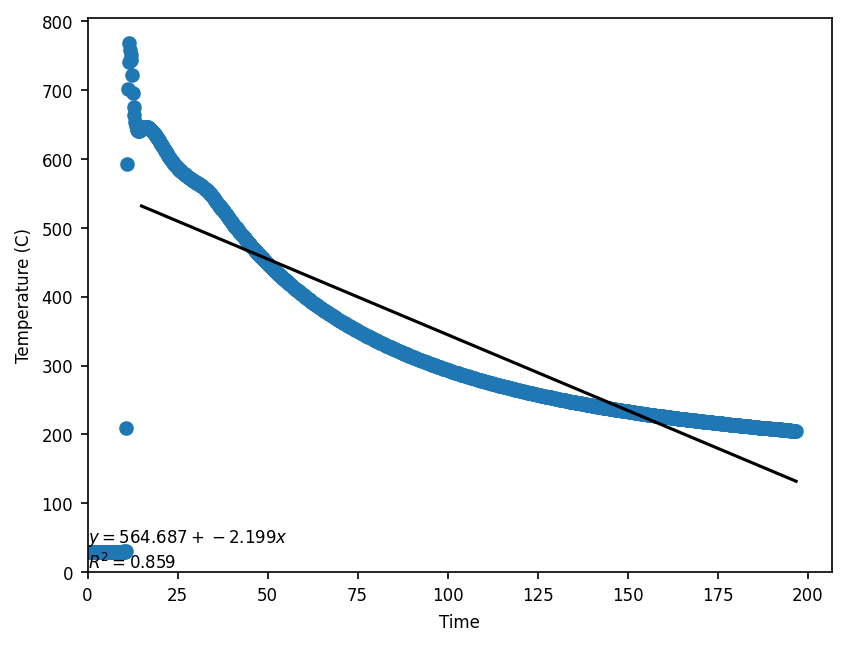
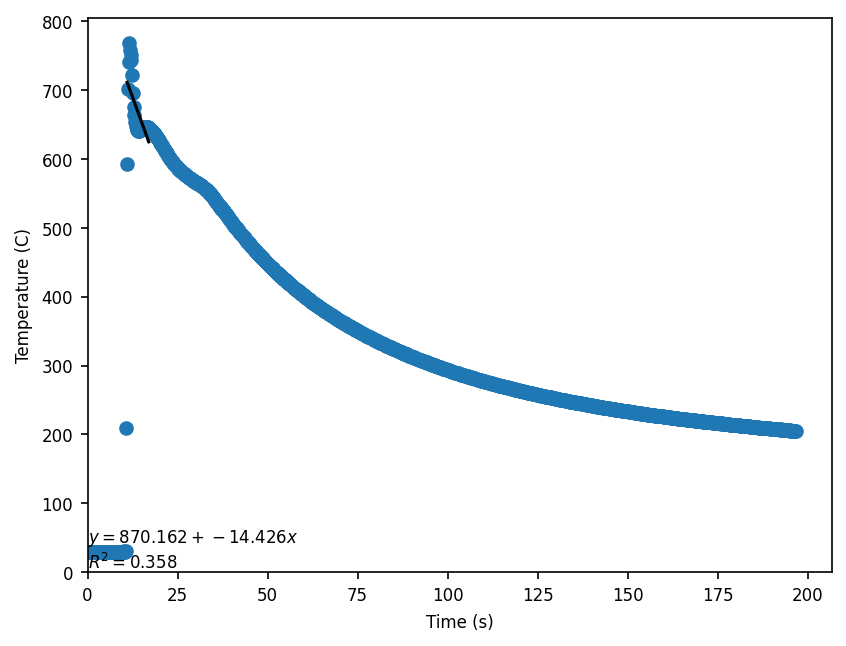
created images of graphs

diff --git a/exp1-casting/exp1-casting.py b/exp1-casting/exp1-casting.py
@@ -37,12 +37,12 @@ freq_steel = 5 # Hz
 # CREATE VARIABLES FOR LINEAR FIT RANGE
 # TODO: change values
 range_ceramic = [15, 50]
-range_graphite = [10, 16]
-range_steel = [10, 16]
+range_graphite = [11, 17]
+range_steel = [26, 34]
 
 # COLUMNS
 # TODO: add axis titles
-x_axis = "Time"
+x_axis = "Time (s)"
 y_axis = "Temperature (C)"
 
 
